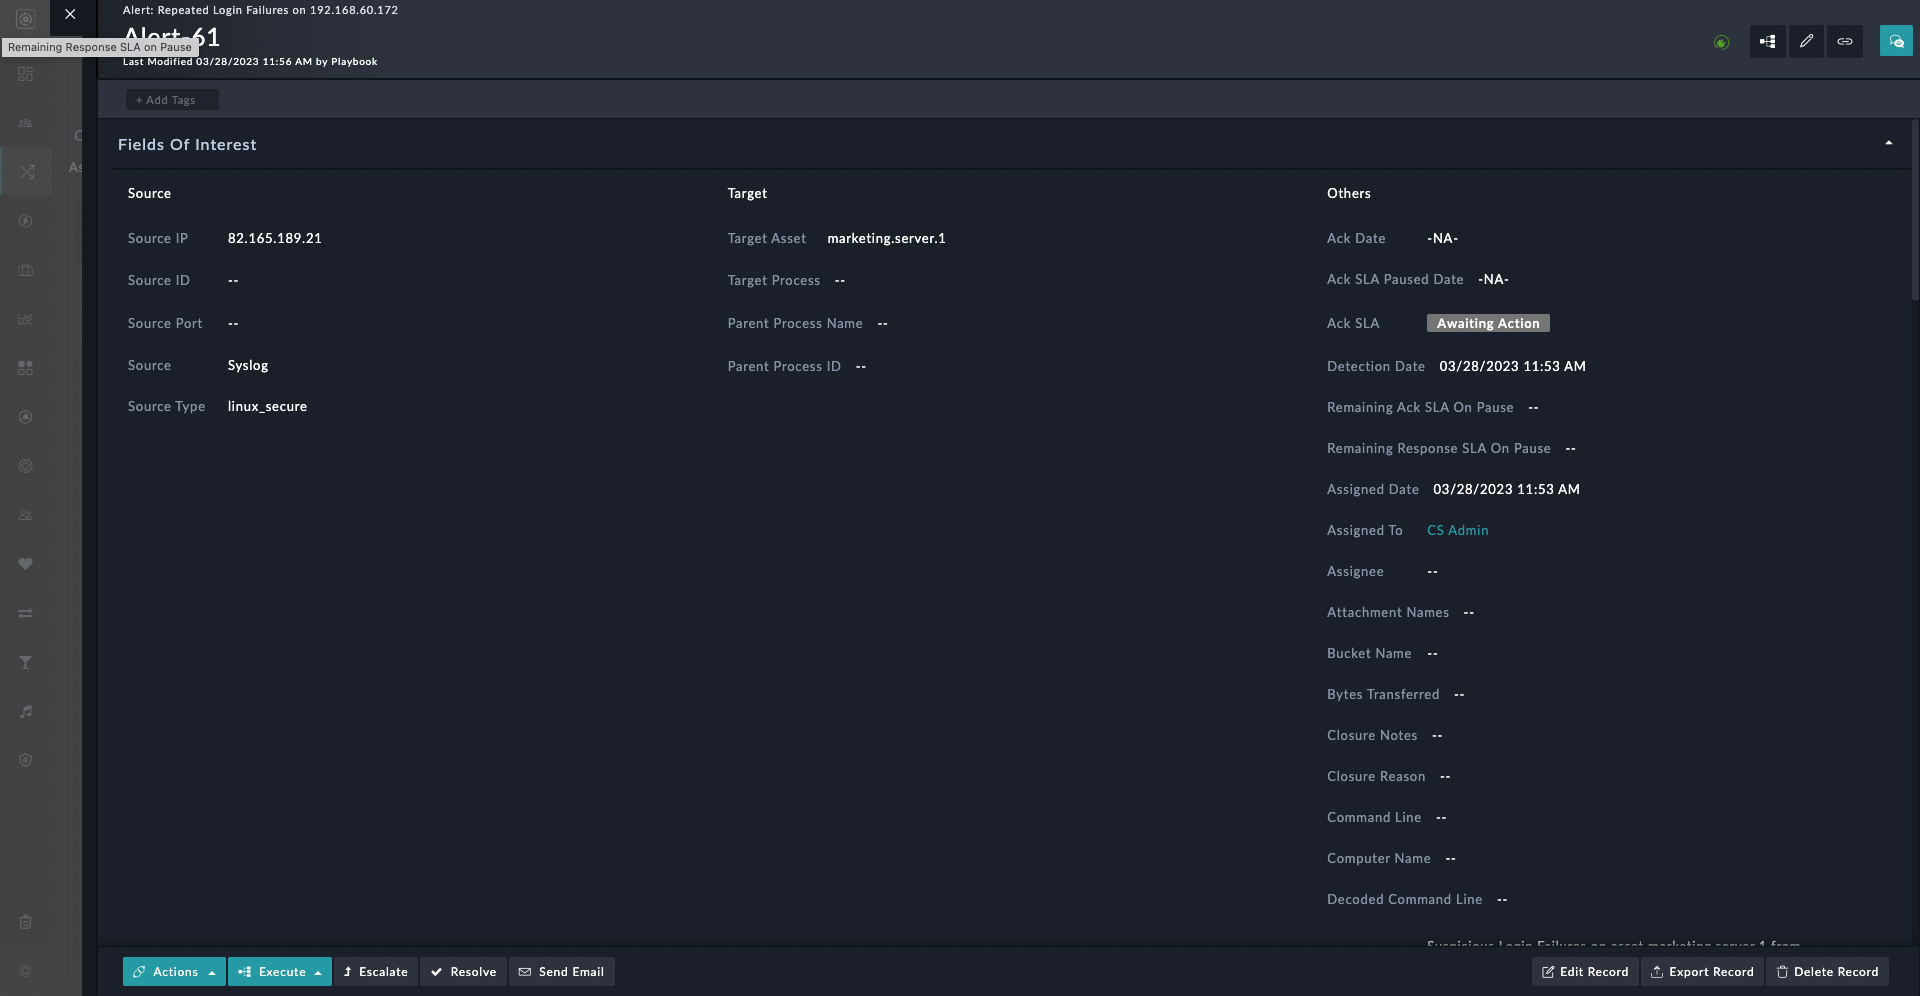
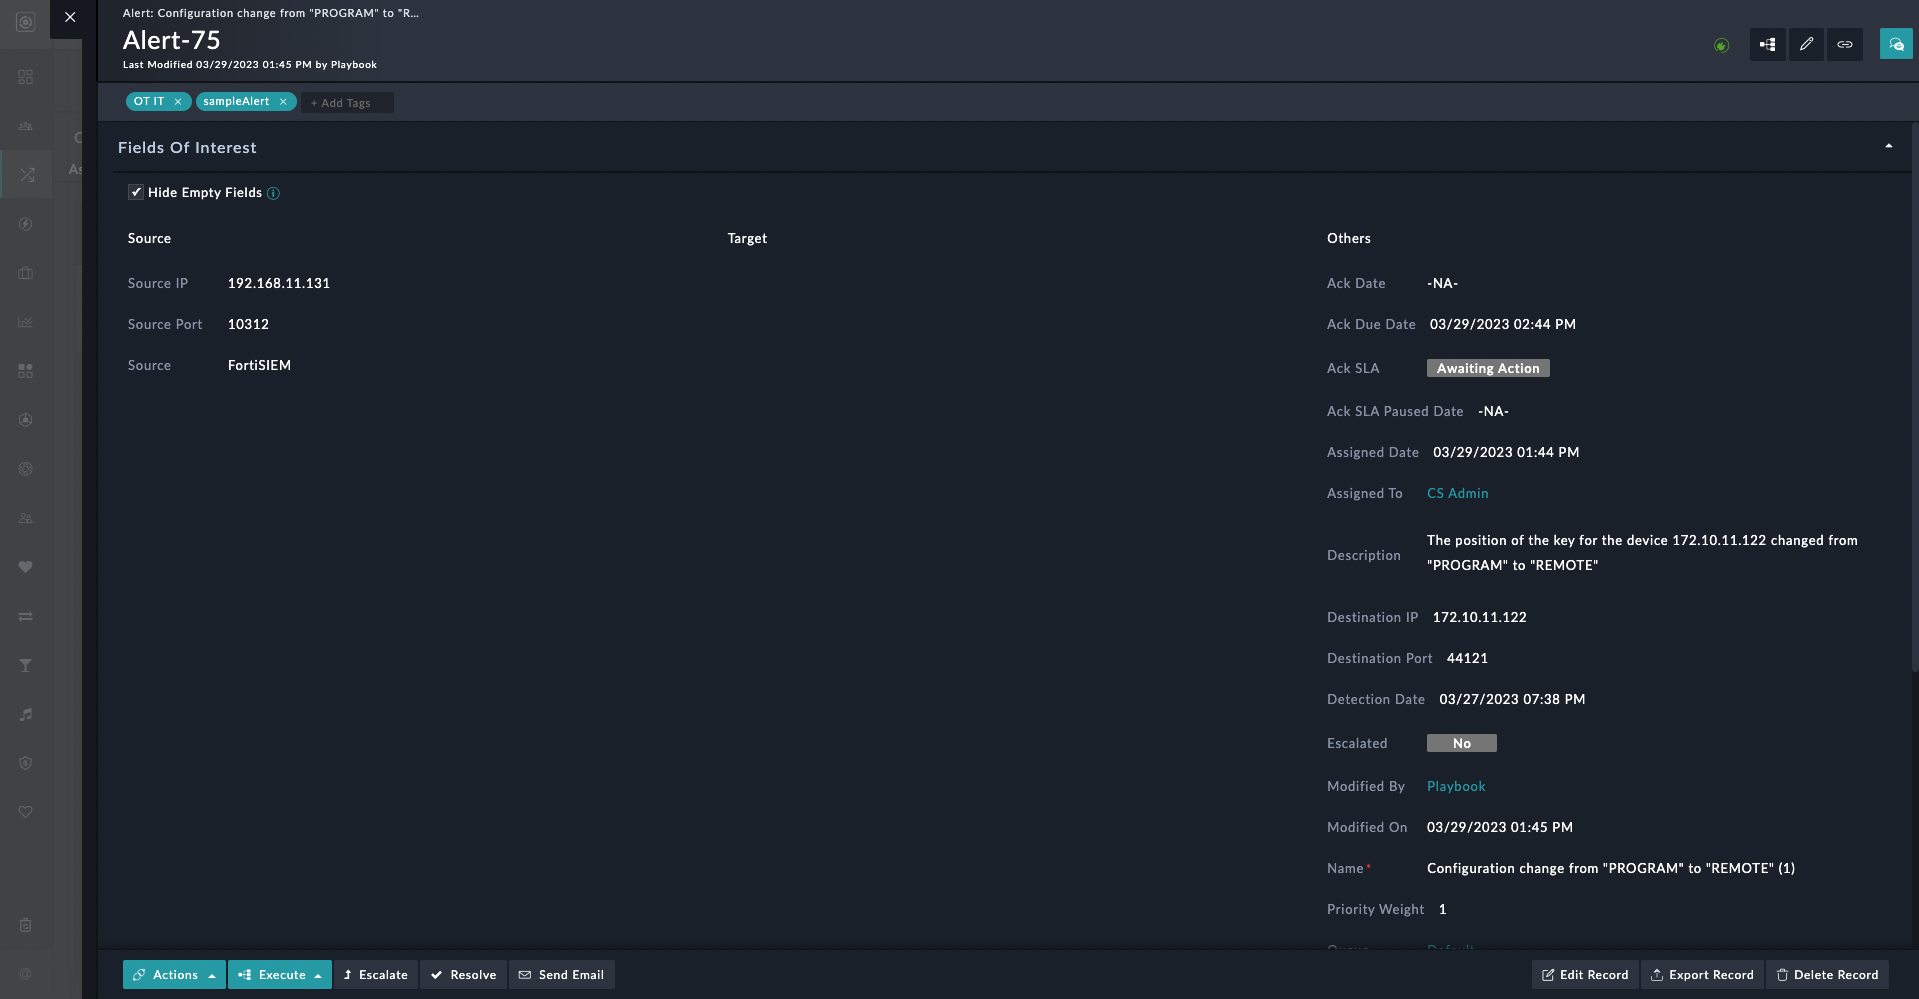
Doc update

diff --git a/docs/usage.md b/docs/usage.md
@@ -15,6 +15,10 @@
 
 **Widget**
 
+A checkbox is provided at the detailed view to hide empty fields at run time.
+
+Detailed view
 ![](./media/detailed-view.png)
 
-
+Detailed view with hide empty fields checkbox ticked
+![](./media/detailed-view-hidden.png)
